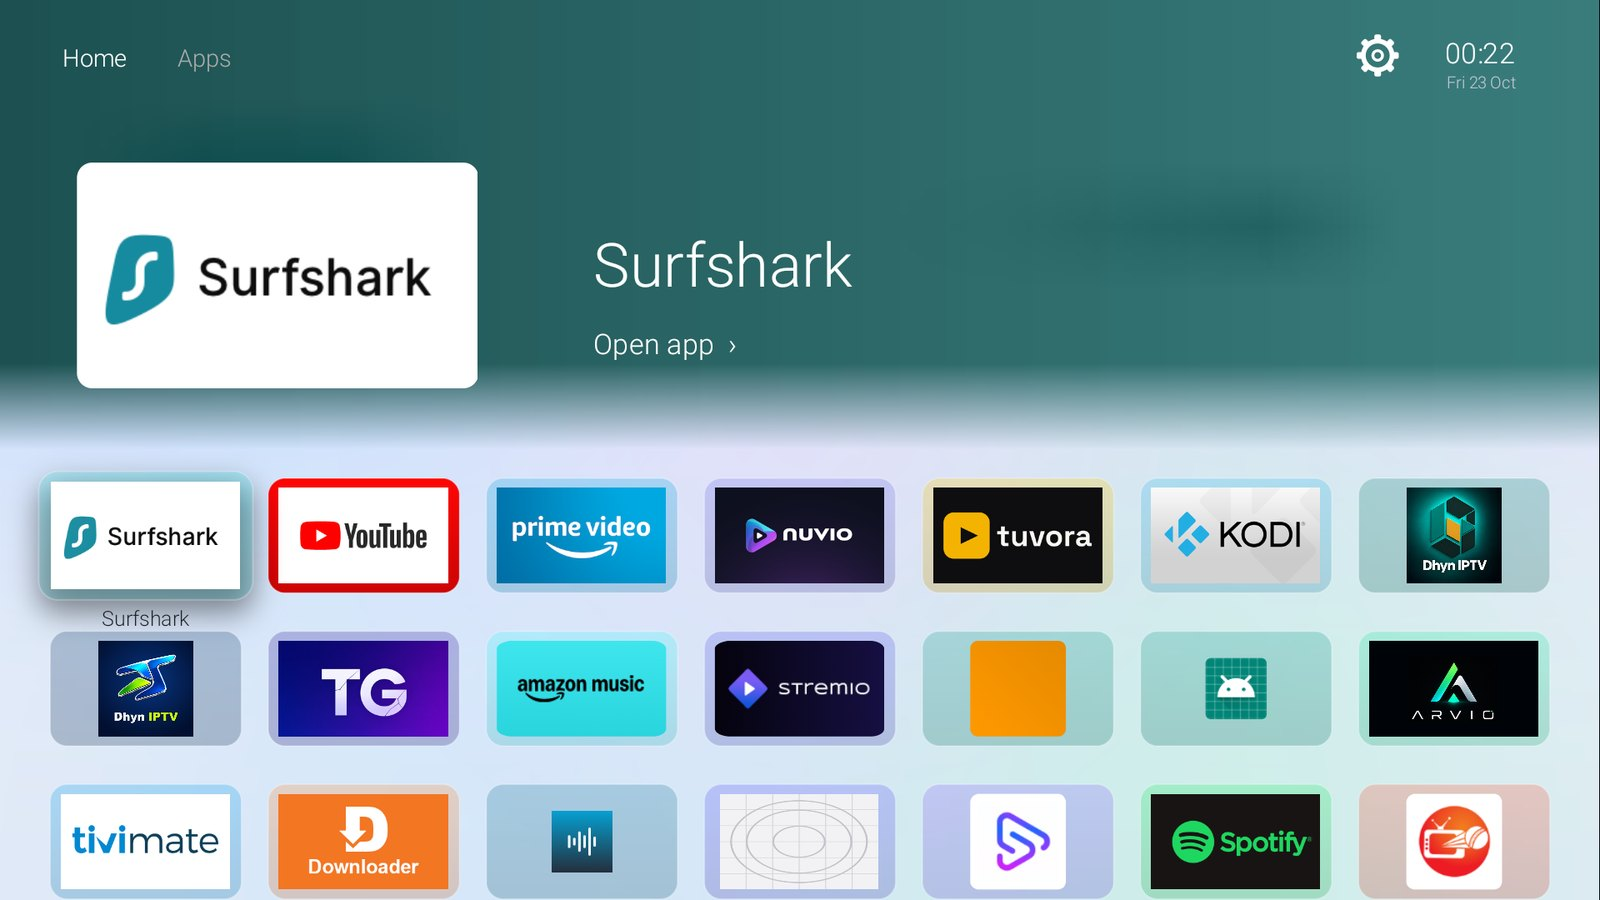
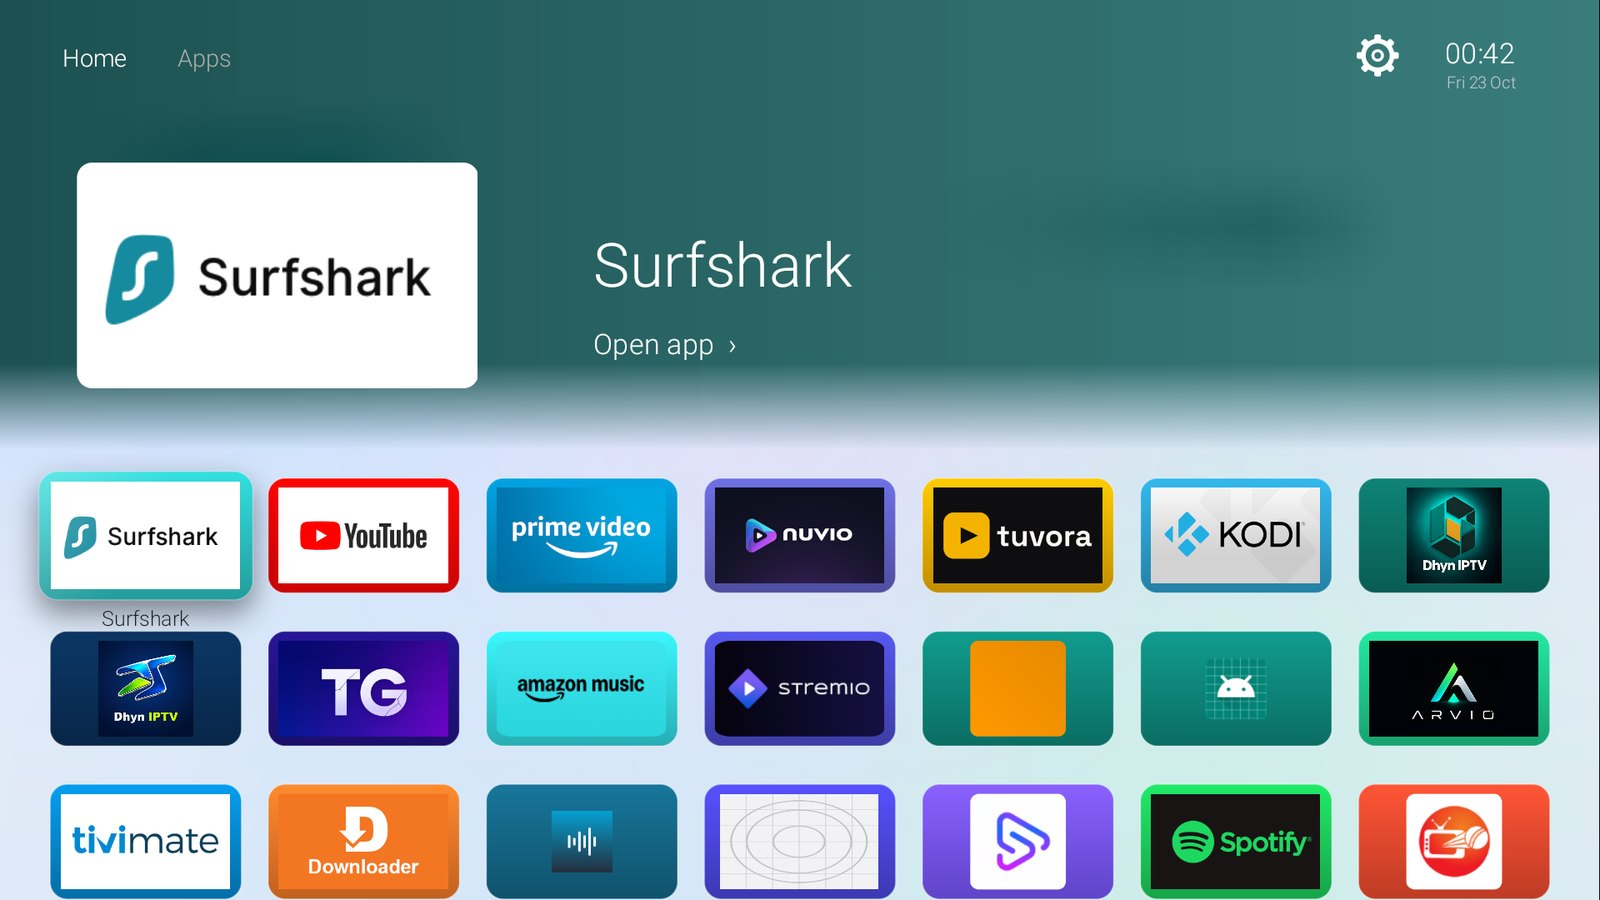
Daylight: full tint on every tile, rows clear the top bar when scrolled
Review fixes: reset paint alpha before tile, shine, wallpaper and top-area
draws (tiles inherited the previous outline's alpha, and the wallpaper the
hint's during its fade); scroll so the row above the focused one sits
below the top bar; rebuild a recycled top-area bitmap. New audit checks
for tile tint and the top bar; screenshot retaken.

Changed region(s): [[0.0, 0.4978, 0.9688, 0.84], [0.0312, 0.8711, 0.9688, 1.0]]

diff --git a/app/src/com/dhyn/tvhome/MainActivity.java b/app/src/com/dhyn/tvhome/MainActivity.java
@@ -19,7 +19,7 @@ class App {String name,pkg;Drawable icon,banner;int tone;Bitmap shelf;App(String
 // Daylight's top-area backdrop, built once per app at half size: a deep wash of the app's colour over its art squeezed
 // to 12x7 and enlarged with filtering (so only its colours survive, no shapes), dark enough for the white title, and
 // faded out below the title so it melts into the wallpaper. Baking it keeps each frame to a single bitmap draw.
-Bitmap shelf(){if(shelf==null){Drawable d=banner!=null?banner:icon;Bitmap s=Bitmap.createBitmap(12,7,Bitmap.Config.ARGB_8888);if(d!=null){d.setBounds(0,0,12,7);d.draw(new Canvas(s));}
+Bitmap shelf(){if(shelf==null||shelf.isRecycled()){Drawable d=banner!=null?banner:icon;Bitmap s=Bitmap.createBitmap(12,7,Bitmap.Config.ARGB_8888);if(d!=null){d.setBounds(0,0,12,7);d.draw(new Canvas(s));}
 shelf=Bitmap.createBitmap(836,235,Bitmap.Config.ARGB_8888);Canvas k=new Canvas(shelf);Paint q=new Paint(Paint.FILTER_BITMAP_FLAG);k.drawBitmap(s,null,new Rect(0,0,836,235),q);s.recycle();
 int t=tone();q.setShader(new LinearGradient(0,0,836,0,dark(t,0.36f,0xf0),dark(t,0.52f,0xd8),Shader.TileMode.CLAMP));k.drawRect(0,0,836,235,q);
 q.setXfermode(new PorterDuffXfermode(PorterDuff.Mode.DST_IN));q.setShader(new LinearGradient(0,190,0,235,0xff000000,0,Shader.TileMode.CLAMP));k.drawRect(0,190,836,235,q);}return shelf;}
@@ -118,7 +118,7 @@ int alpha(int c,int a){return (c&0xffffff)|(a<<24);}
 void slice(Canvas c,Bitmap b,RectF src,RectF r){if(b==null)return;float sx=b.getWidth()/1672f,sy=b.getHeight()/941f;c.drawBitmap(b,new Rect((int)(src.left*sx),(int)(src.top*sy),(int)(src.right*sx),(int)(src.bottom*sy)),r,p);}
 
 protected void onDraw(Canvas real){super.onDraw(real);long now=System.currentTimeMillis();boolean animating=false;scale=Math.min(getWidth()/1672f,getHeight()/941f);real.save();real.translate((getWidth()-1672*scale)/2,(getHeight()-941*scale)/2);real.scale(scale,scale);Canvas c=real;
-c.drawColor(Color.rgb(5,8,15));if(bg!=null)c.drawBitmap(bg,null,new RectF(0,0,1672,941),p);if(all){p.setColor(0xcc060914);c.drawRect(0,0,1672,941,p);}
+c.drawColor(Color.rgb(5,8,15));p.setShader(null);p.setAlpha(255);if(bg!=null)c.drawBitmap(bg,null,new RectF(0,0,1672,941),p);if(all){p.setColor(0xcc060914);c.drawRect(0,0,1672,941,p);}
 int accent=ACCENT[theme];boolean dl=daylight();if(dl)animating|=daylightHome(c,now);else{scroll=scrollTarget=0;lift=null;tiltX=tiltY=0;}
 // Top bar: Home, Apps, Settings gear, time and date. Over Daylight's light rows (once scrolled) it turns dark.
 boolean darkBar=dl&&scroll>=100;int ink=darkBar?0xff1c1f26:Color.WHITE;
@@ -163,13 +163,13 @@ float scroll,scrollTarget;long lastFrame,tiltAt;int shelfIndex,tiltX,tiltY;float
 // The lifted tile's soft shadow; blurred shadows draw with hardware acceleration from Android 9, older TVs simply go without.
 Paint shadow=new Paint(Paint.ANTI_ALIAS_FLAG);{shadow.setMaskFilter(new BlurMaskFilter(22,BlurMaskFilter.Blur.NORMAL));}
 boolean daylightHome(Canvas c,long now){ArrayList<App> v=visible();int n=v.size(),f=favourites.size(),row=selected/7;hit=new RectF[n];
-float dt=Math.max(0,Math.min(50,now-lastFrame));lastFrame=now;scrollTarget=row==0?0:300+160*row;scroll+=(scrollTarget-scroll)*(float)(1-Math.exp(-dt/66.0));boolean sliding=Math.abs(scrollTarget-scroll)>0.5f;if(!sliding)scroll=scrollTarget;
+float dt=Math.max(0,Math.min(50,now-lastFrame));lastFrame=now;scrollTarget=row==0?0:200+160*row;scroll+=(scrollTarget-scroll)*(float)(1-Math.exp(-dt/66.0));boolean sliding=Math.abs(scrollTarget-scroll)>0.5f;if(!sliding)scroll=scrollTarget;
 // Focus lift per tile, 0..1, eased over 150 ms; the list can change size when apps are installed or removed.
 if(lift==null||lift.length!=n){lift=new float[n];if(selected<n&&nav<0)lift[selected]=1;}
 for(int i=0;i<n;i++){float target=i==selected&&nav<0?1:0;lift[i]=target>lift[i]?Math.min(target,lift[i]+dt/150f):Math.max(target,lift[i]-dt/150f);if(lift[i]>0&&lift[i]<1)sliding=true;}
 float tilt=Math.max(0,1-(now-tiltAt)/300f);if(tilt>0)sliding=true;
 if(selected<f)shelfIndex=selected;c.save();c.translate(0,-scroll);
-if(f>0&&scroll<470){App a=favourites.get(Math.min(shelfIndex,f-1));p.setShader(null);c.drawBitmap(a.shelf(),null,new RectF(0,0,1672,470),p);
+if(f>0&&scroll<470){App a=favourites.get(Math.min(shelfIndex,f-1));p.setShader(null);p.setAlpha(255);c.drawBitmap(a.shelf(),null,new RectF(0,0,1672,470),p);
 Drawable art=a.banner!=null?a.banner:a.icon;if(art!=null){RectF box=new RectF(80,170,500,406);c.save();Path clip=new Path();clip.addRoundRect(box,16,16,Path.Direction.CW);c.clipPath(clip);drawArt(c,art,box);c.restore();}text(c,label(a.name,900,64),620,300,64,Color.WHITE);text(c,"Open app  ›",620,370,30,Color.WHITE);}
 // The selected tile is drawn last so its lifted, larger card sits over its neighbours. Rows scrolled off screen are skipped.
 for(int pass=0;pass<2;pass++)for(int i=0;i<n;i++){if((i==selected)!=(pass==1))continue;RectF r=daylightRect(i);RectF on=new RectF(r);on.offset(0,-scroll);hit[i]=on;if(on.bottom<-40||on.top>981)continue;float e=1-(float)Math.pow(1-lift[i],3);daylightCard(c,v.get(i),r,e,i==selected?tilt:0);}
@@ -183,9 +183,9 @@ void daylightCard(Canvas c,App a,RectF r,float e,float tilt){int t=a.tone();floa
 if(e>0){float z=1+0.12f*e;c.scale(z,z,cx,cy);if(Build.VERSION.SDK_INT>=28){RectF sh=new RectF(r);sh.offset(0,12*e);shadow.setColor(alpha(0xff000000,(int)(0x70*e)));c.drawRoundRect(sh,18,18,shadow);}
 if(tilt>0){camera.save();camera.rotateY(4*tiltX*e*tilt);camera.rotateX(-4*tiltY*e*tilt);camera.getMatrix(tiltMatrix);camera.restore();tiltMatrix.preTranslate(-cx,-cy);tiltMatrix.postTranslate(cx,cy);c.concat(tiltMatrix);}}
 c.save();Path clip=new Path();clip.addRoundRect(r,18,18,Path.Direction.CW);c.clipPath(clip);
-p.setShader(new LinearGradient(0,r.top,0,r.bottom,shade(t,1.15f),shade(t,0.8f),Shader.TileMode.CLAMP));c.drawRect(r,p);p.setShader(null);
+p.setColor(0xff000000);p.setShader(new LinearGradient(0,r.top,0,r.bottom,shade(t,1.15f),shade(t,0.8f),Shader.TileMode.CLAMP));c.drawRect(r,p);p.setShader(null);
 if(a.banner!=null){RectF in=new RectF(r);in.inset(10,10);drawArt(c,a.banner,in);}else if(a.icon!=null)drawArt(c,a.icon,new RectF(cx-32,cy-32,cx+32,cy+32));
-if(e>0){p.setShader(new LinearGradient(r.left,r.top,cx,cy,alpha(0xffffffff,(int)(0x40*e)),0x00ffffff,Shader.TileMode.CLAMP));c.drawRect(r,p);p.setShader(null);}
+if(e>0){p.setColor(0xff000000);p.setShader(new LinearGradient(r.left,r.top,cx,cy,alpha(0xffffffff,(int)(0x40*e)),0x00ffffff,Shader.TileMode.CLAMP));c.drawRect(r,p);p.setShader(null);}
 c.restore();outline(c,r,0x40ffffff,1.5f,18);c.restore();}
 
 // Daylight's panels are light frosted glass with dark text; every other theme's are dark.

diff --git a/tools/regression-audit.py b/tools/regression-audit.py
@@ -103,14 +103,34 @@ def top_area_darkness(name):
     from PIL import Image
     return sum(Image.open(OUT / f'{name}.png').convert('L').crop((1300, 300, 1900, 460)).getdata()) / (600 * 160)
 
+def untinted_tiles(name):
+    # Second-row tiles (unfocused, page not scrolled): each tile's top strip, above its banner, is the app's own tint.
+    # Counts tiles whose strip is still nearly the bare wallpaper, i.e. drawn see-through. Screen = design * 1920/1672.
+    from PIL import Image, ImageChops
+    k = 1920 / 1672; shot_im = Image.open(OUT / f'{name}.png').convert('RGB')
+    wall = Image.open(ROOT / 'app' / 'assets' / 'daylight-wallpaper.png').convert('RGB').resize((1920, 1081))
+    pale = 0
+    for col in range(7):
+        l = 52 + col * 228; box = (int((l + 20) * k), int(662 * k), int((l + 180) * k), int(668 * k))
+        d = ImageChops.difference(shot_im.crop(box), wall.crop(box)); diff = sum(sum(px) for px in d.getdata()) / (3 * len(d.getdata()))
+        pale += diff < 30
+    return pale
+
+def top_bar_overlap():
+    # Bounds of dock tiles (screen px) that intrude into the top bar's band (y 20-110) while the page is scrolled.
+    return [n.get('content-desc') for n in nodes() if re.search(r'dock \d of', n.get('content-desc', ''))
+            and (lambda y, yy: y < 110 and yy > 20)(*map(int, re.findall(r'\d+', n.get('bounds'))[1::2]))]
+
 def daylight_checks():
     # Daylight shows every app: the dock in row 1, the rest below. Starts and ends on row 1 of a fresh Luma.
     shot('theme-Daylight'); b = top_area_darkness('theme-Daylight')
     record('Daylight top area keeps white text readable', b < 120, f'mean brightness {b:.0f}')
+    pale = untinted_tiles('theme-Daylight'); record('Daylight tiles keep their full tint', pale == 0, f'{pale} of 7 second-row tiles drawn see-through')
     key(22); shot('daylight-next')
     d = top_diff('theme-Daylight', 'daylight-next'); record('Daylight top area follows focus', d > 8, f'top-half difference {d:.1f}')
     key(21); key(20); shot('daylight-scrolled'); d = top_diff('theme-Daylight', 'daylight-scrolled')
-    record('Daylight scrolls down', d > 8, f'top-half difference {d:.1f}'); key(19)
+    record('Daylight scrolls down', d > 8, f'top-half difference {d:.1f}')
+    over = top_bar_overlap(); record('Daylight scrolled rows clear the top bar', not over, ' / '.join(over) or 'no dock tile under the top bar'); key(19)
     key(20); record('Daylight down reaches lower rows', ', app ' in selected(), selected())
     key(19); record('Daylight up returns to the dock row', ', dock ' in selected(), selected())
     key(20); key(23, 1.2, long=True); items = texts()
